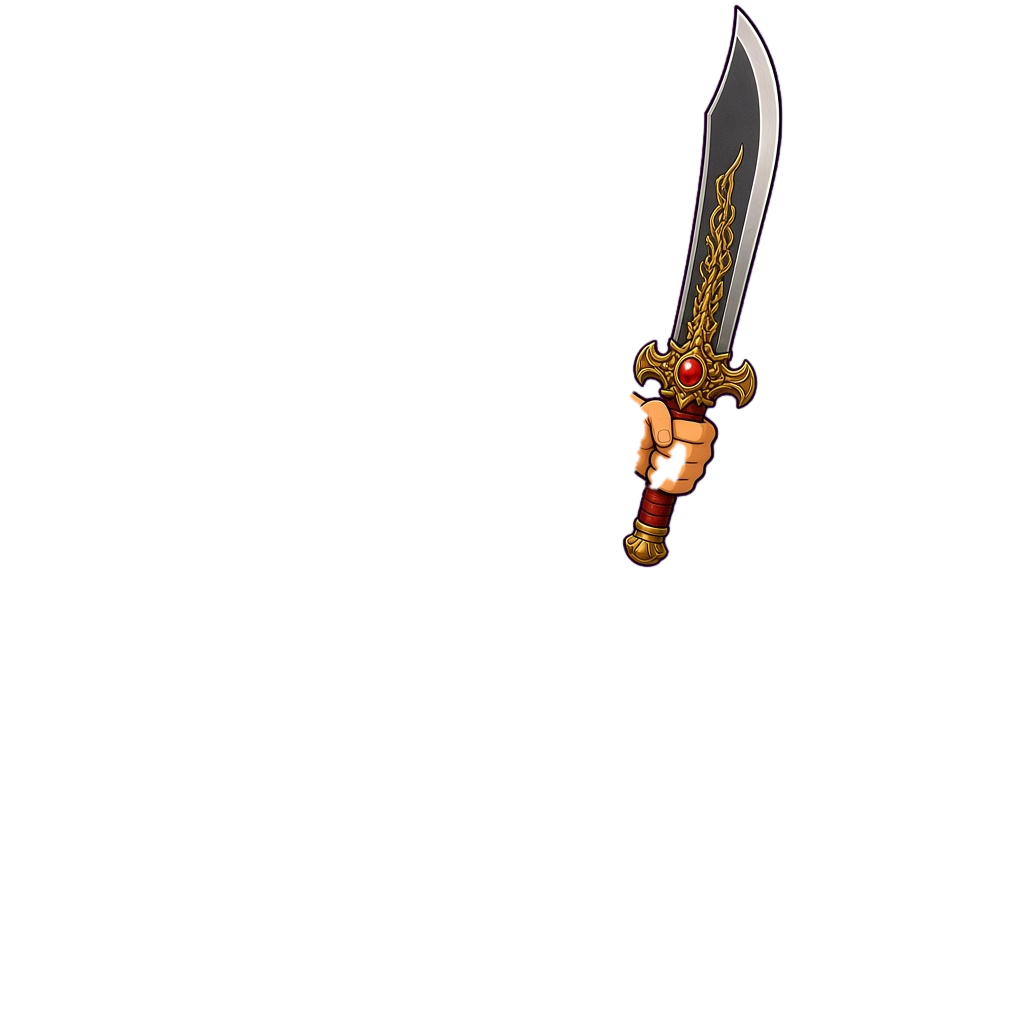
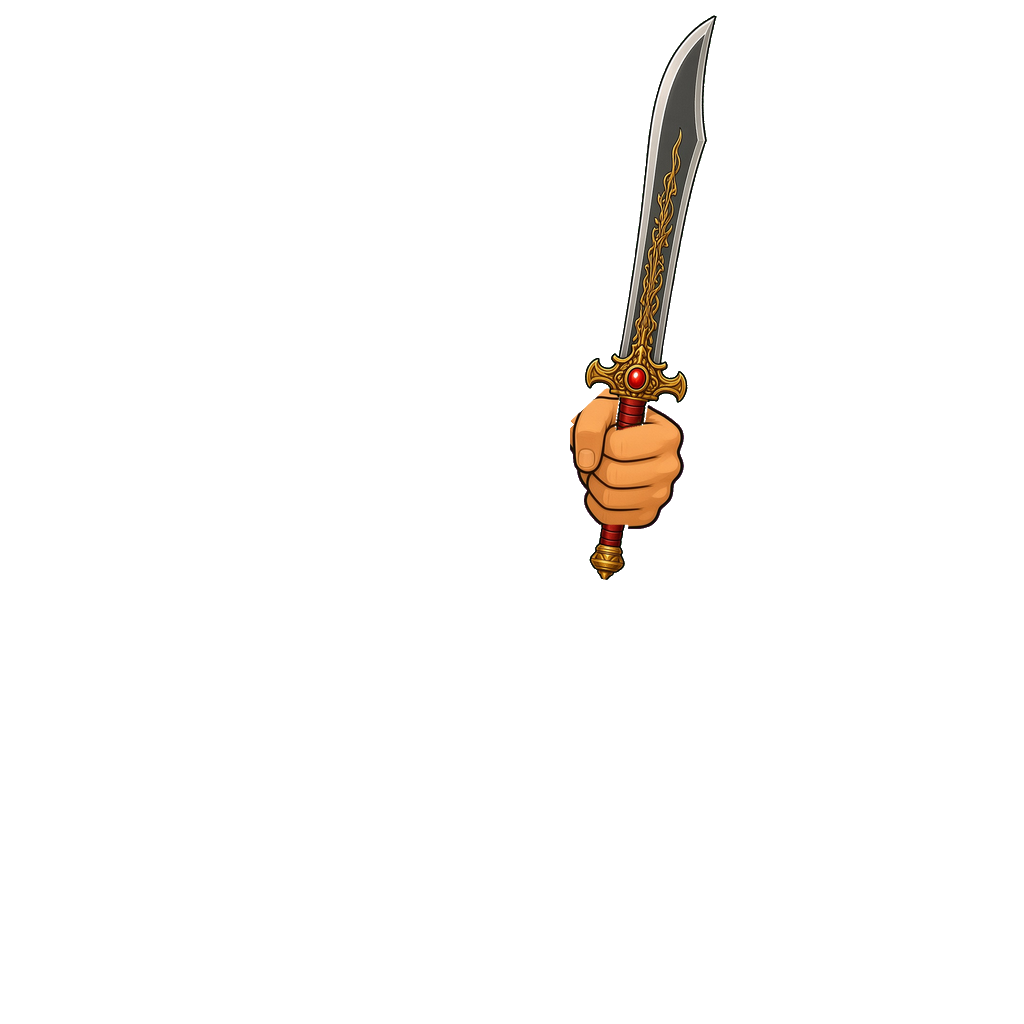
美术：其余 9 个武器层改为分层重画（剑与拳头分开合成），战士木剑换上已确认样张；备份 171f568 版，更新对比图与文档

Changed region(s): [[0.5312, 0.0, 0.7812, 0.5625]]

diff --git a/docs/sword-up-preview/sample_src/comp2.py b/docs/sword-up-preview/sample_src/comp2.py
@@ -1,0 +1,67 @@
+# 分层合成：剑下半 → 拳头 → 拳上沿以上的剑（柄/护手/剑身）。用法：comp2.py <cls> <sword> <out.png> <预览前缀>
+import numpy as np, sys
+from PIL import Image
+from scipy import ndimage as nd
+cls,sw_name,outp,pre=sys.argv[1:5]
+SW={ # 中轴x, 剑尖y, 护手上沿, 柄起, 柄止(剑首起), 末端, 柄宽
+ 'wood':(511,45,678,740,905,962,61),'iron':(511,15,710,752,955,1008,54),
+ 'dragon':(511,10,645,758,945,1003,57),'dragonc':(504,20,645,740,915,985,52),
+ 'tao':(505,15,592,652,812,1015,40)}
+AX,TIP,GT,GS,GE,END,GW=SW[sw_name]
+S,TX,TY=0.48,380,230; FT,FB=380,615
+def keyc(p,thr=60):
+    a=np.array(Image.open(p).convert('RGB')).astype(int); bg=np.median(np.concatenate([a[:8].reshape(-1,3),a[:,-8:].reshape(-1,3)]),0)
+    d=np.sqrt(((a-bg)**2).sum(-1)); return a,np.clip((d-thr*0.5)/(thr*0.5),0,1)
+h,ha=keyc('s_hand.jpg')
+yy,xx=np.mgrid[0:1024,0:1024]; cx=570+(yy-100)*(-0.1616); band=np.abs(xx-cx)<30
+rodcol=(np.abs(h[...,0]-140)<50)&(np.abs(h[...,1]-85)<45)&(h[...,2]<100)
+keep=(ha>0)&(xx>=395)&(yy>=330)&(yy<=640)&((xx+(yy-330)*1.1)>470)
+keep&=~(band&((yy<FT)|(yy>FB))); keep&=~(band&rodcol&(yy<FT+45))
+keep=nd.binary_opening(keep,iterations=1); lab,n=nd.label(keep); sz=nd.sum(keep,lab,range(1,n+1)); keep=lab==(np.argmax(sz)+1)
+keep=nd.binary_erosion(keep,iterations=1)
+alpha=nd.gaussian_filter(keep.astype(float),0.8)*np.clip(ha*1.5-0.5,0,1)
+mg=(h[...,0]>h[...,1]+60)&(h[...,2]>h[...,1]+60); h[mg]=[40,25,30]
+H=np.dstack([h,alpha*255]).astype(np.uint8)
+s,sa=keyc(f'sw_{sw_name}.jpg',80)
+g=(s[...,1]>s[...,0]+40)&(s[...,1]>s[...,2]+40); s[g&(sa<1)]=[40,30,30]   # 去绿边
+S0=Image.fromarray(np.dstack([s,sa*255]).astype(np.uint8))
+L0,R0=AX-130,AX+130
+k=50.0/GW
+blade=S0.crop((L0,TIP,R0,GT)); guard=S0.crop((L0,GT,R0,GS)); grip=S0.crop((L0,GS+8,R0,GE-8)); pom=S0.crop((L0,GE-8,R0,END))
+tgt=int(726/k); blade=blade.resize((260,max(tgt,blade.height)),Image.LANCZOS)
+need=FB-FT+70; gl=int(need/k); G=Image.new('RGBA',(260,gl))
+for y in range(0,gl,grip.height): G.alpha_composite(grip.crop((0,0,260,min(grip.height,gl-y))),(0,y))
+parts=[blade,guard,G,pom]; Ht=sum(p.height for p in parts); sw=Image.new('RGBA',(260,Ht)); y=0
+for p in parts: sw.alpha_composite(p,(0,y)); y+=p.height
+sw=sw.resize((int(260*k),int(Ht*k)),Image.LANCZOS)
+guard_y=(blade.height+guard.height)*k; axx=130*k
+ang=np.degrees(np.arctan(0.1616)); PAD=900
+big=Image.new('RGBA',(1024,1024+PAD)); gy=FT-26; gx=570+(gy-100)*(-0.1616)
+big.alpha_composite(sw,(int(gx-axx),int(gy-guard_y)+PAD))
+big=big.rotate(-ang,center=(gx,gy+PAD),resample=Image.BICUBIC)
+B=np.array(big); yy2=np.mgrid[0:1024+PAD,0:1024][0]
+up=B.copy(); up[...,3]=np.where(yy2<FT+6+PAD,up[...,3],0)
+Hn=Image.new('RGBA',(1024,1024+PAD)); Hn.alpha_composite(Image.fromarray(H),(0,PAD))
+lay=Image.new('RGBA',(1024,1024+PAD)); lay.alpha_composite(big); lay.alpha_composite(Hn); lay.alpha_composite(Image.fromarray(up))
+L=lay.resize((int(1024*S),int((1024+PAD)*S)),Image.LANCZOS)
+b2=Image.new('RGBA',(2048,2048)); b2.alpha_composite(L,(TX+512,TY-int(PAD*S)+512)); out=b2.crop((512,512,1536,1536))
+# 手腕不压袖口：仅在手（非剑）区域，body 上非肤色像素处去掉
+body=np.array(Image.open(f'/workspace/cardlegend/wt-sup/public/assets/equip/{cls}/body.png').convert('RGBA')).astype(int)
+handonly=Image.new('RGBA',(2048,2048)); handonly.alpha_composite(Hn.resize(L.size,Image.LANCZOS),(TX+512,TY-int(PAD*S)+512)); ho=np.array(handonly.crop((512,512,1536,1536)))[...,3]>0
+upc=Image.new('RGBA',(2048,2048)); upc.alpha_composite(Image.fromarray(up).resize(L.size,Image.LANCZOS),(TX+512,TY-int(PAD*S)+512)); upm=np.array(upc.crop((512,512,1536,1536)))[...,3]>20
+br,bgc,bb,ba=body[...,0],body[...,1],body[...,2],body[...,3]
+skin=(br>170)&(br-bb>60)&(bgc>100)
+sleeve=(ba>200)&~skin
+sleeve=nd.binary_opening(sleeve,iterations=5)
+X=np.mgrid[0:1024,0:1024][1]
+cut=ho&sleeve&~upm&(X<615)
+o=np.array(out).astype(int); o[cut,3]=0
+r,gg,bl,a=o[...,0],o[...,1],o[...,2],o[...,3]
+o[((r-gg>70)&(bl-gg>20)&(a>0))|((gg-r>50)&(gg-bl>50)&(a>0)),0:3]=[45,28,30]
+o[...,3]=np.where(a<90,0,a)
+out=Image.fromarray(o.astype(np.uint8)); out.save(outp)
+arm='cloth'
+t=Image.new('RGBA',(1024,1024),(70,70,80,255)); t.alpha_composite(Image.fromarray(body.astype(np.uint8))); t.alpha_composite(out)
+t.convert('RGB').crop((520,300,760,560)).resize((720,780),Image.LANCZOS).save(pre+'_3x.png')
+t.convert('RGB').crop((380,0,900,720)).save(pre+'_v.png')
+print(outp,out.getbbox())

diff --git a/docs/sword-up-audit.md b/docs/sword-up-audit.md
@@ -54,3 +54,11 @@
 - 部件：单独生成「握竖直圆棍的拳头」（四指自上而下包握、拇指压在食指/中指上）和「不带手的竖直木剑」；剑拆为剑身+护手、剑柄（按拳高平铺加长）、剑首。
 - 合成（自下而上）：整把剑 → 拳头（去掉棍的像素，让剑柄从指缝透出）→ 拳头上沿以上的剑柄+护手+剑身。剑柄从拳头上下两端穿出，护手在拳头上方不压手；按棍的倾角（约 9°外倾）旋转。缩放 0.48 贴到 body.png 原拳位置，body 未改，1024×1024。
 - 样张：docs/sword-up-preview/sample_warrior_wood.png、sample_warrior_wood_3x.png；部件与脚本：docs/sword-up-preview/sample_src/。
+
+### 分层重画批量（10 个武器层）
+- 用户确认战士木剑分层样张后，用同法完成其余 9 个：战士 iron/dragon、法师 wood/iron/dragon、道士 wood/iron/dragon/tao；战士木剑直接用已确认的样张层。全部同名替换为 1024×1024 RGBA，body/护甲层未改。
+- 剑部件：单独生成不带手的竖直剑（参考 old/ 原图保留外观）：木剑、铁剑、直刃龙剑（法师）、弯刃龙剑（战士/道士）、道士剑（银色角形护手+紫宝石+蓝银柄+红剑穗）。法师/道士木剑、三职业铁剑共用同款部件（原图本就近似）。
+- 手部：共用样张拳头；脚本 comp2.py 在 body 袖口（非肤色）处裁掉手腕，让手从法师/道士袖口伸出；拳内只在拳头上沿去掉棍像素，避免剑柄色从指缝透出。
+- 每层 3 倍放大自检：指节分段、拇指压在食指/中指上、护手在拳头上方、剑柄从拳头上下两端穿出、剑尖朝上，均通过。
+- portraits/warrior_full.png 已 3 倍检查：戴手套握拳，护手在拳上方，剑柄从拳下穿出并露出剑首，无同类问题，未改。
+- 备份：最初原图在 old/equip_{warrior,mage,taoist}/；171f568 版在 old/regen_171f568/。对比图（上原图、中新图、下手部 3 倍）：{warrior,mage,taoist}_equip_compare.png。部件与脚本：sample_src/（swords/、comp2.py）。

diff --git a/docs/art-requests.md b/docs/art-requests.md
@@ -1500,3 +1500,11 @@ public/assets/ui/UI-Tooltip-Border.png
 - 法师批 3 张、道士批 4 张已完成。fx/summon_skeleton_atk.png 按用户要求不改；战士 body 不重画（等用户决定）。
 - 旧图备份：docs/sword-up-preview/old/equip_{warrior,mage,taoist}/（战士为最初原图，旋转版不再保留）；对比图（上旧下新）：docs/sword-up-preview/{warrior,mage,taoist}_equip_compare.png。
 - 注意：各剑倾角略有差异（约 10–25°）；法师木剑首版拳边有杂线，已重新生成。
+
+### 分层重画批量（10 个武器层）
+- 用户确认战士木剑分层样张后，用同法完成其余 9 个：战士 iron/dragon、法师 wood/iron/dragon、道士 wood/iron/dragon/tao；战士木剑直接用已确认的样张层。全部同名替换为 1024×1024 RGBA，body/护甲层未改。
+- 剑部件：单独生成不带手的竖直剑（参考 old/ 原图保留外观）：木剑、铁剑、直刃龙剑（法师）、弯刃龙剑（战士/道士）、道士剑（银色角形护手+紫宝石+蓝银柄+红剑穗）。法师/道士木剑、三职业铁剑共用同款部件（原图本就近似）。
+- 手部：共用样张拳头；脚本 comp2.py 在 body 袖口（非肤色）处裁掉手腕，让手从法师/道士袖口伸出；拳内只在拳头上沿去掉棍像素，避免剑柄色从指缝透出。
+- 每层 3 倍放大自检：指节分段、拇指压在食指/中指上、护手在拳头上方、剑柄从拳头上下两端穿出、剑尖朝上，均通过。
+- portraits/warrior_full.png 已 3 倍检查：戴手套握拳，护手在拳上方，剑柄从拳下穿出并露出剑首，无同类问题，未改。
+- 备份：最初原图在 old/equip_{warrior,mage,taoist}/；171f568 版在 old/regen_171f568/。对比图（上原图、中新图、下手部 3 倍）：{warrior,mage,taoist}_equip_compare.png。部件与脚本：sample_src/（swords/、comp2.py）。
